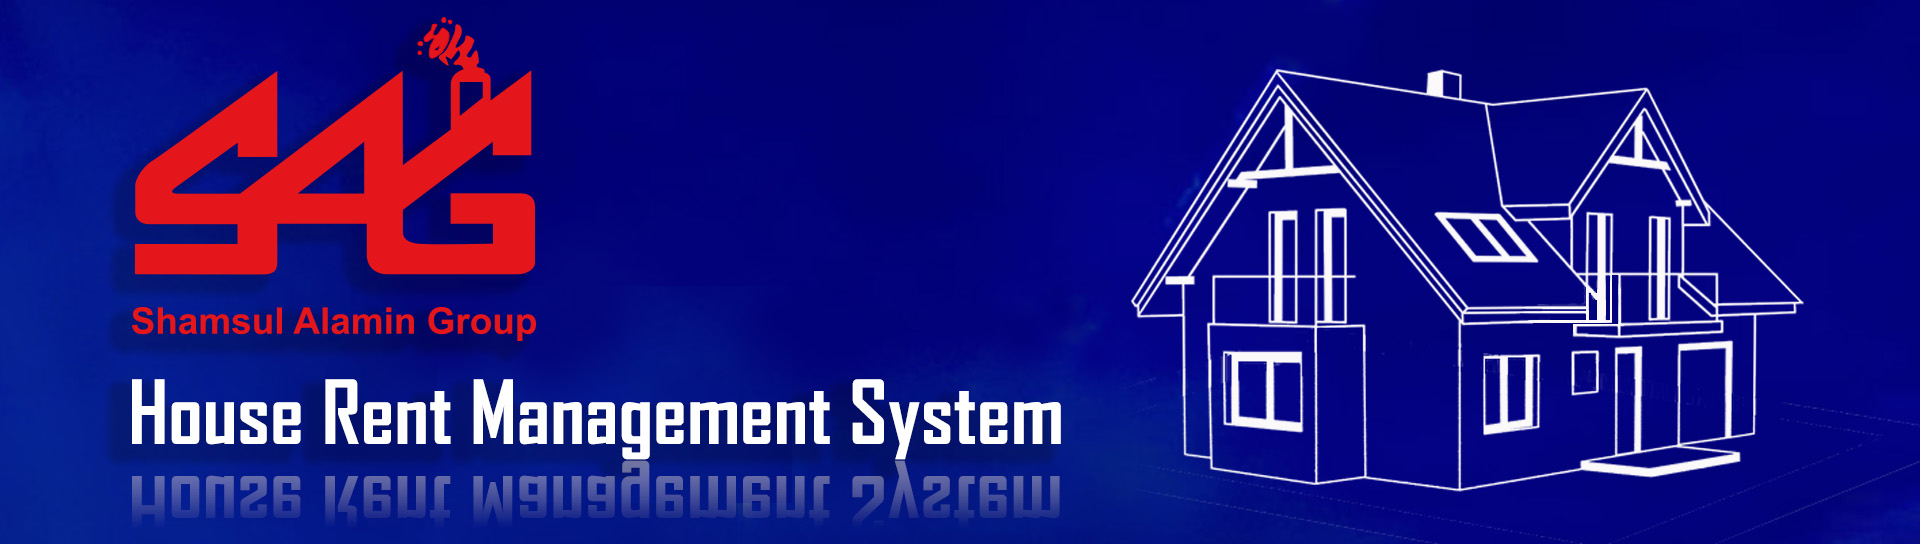
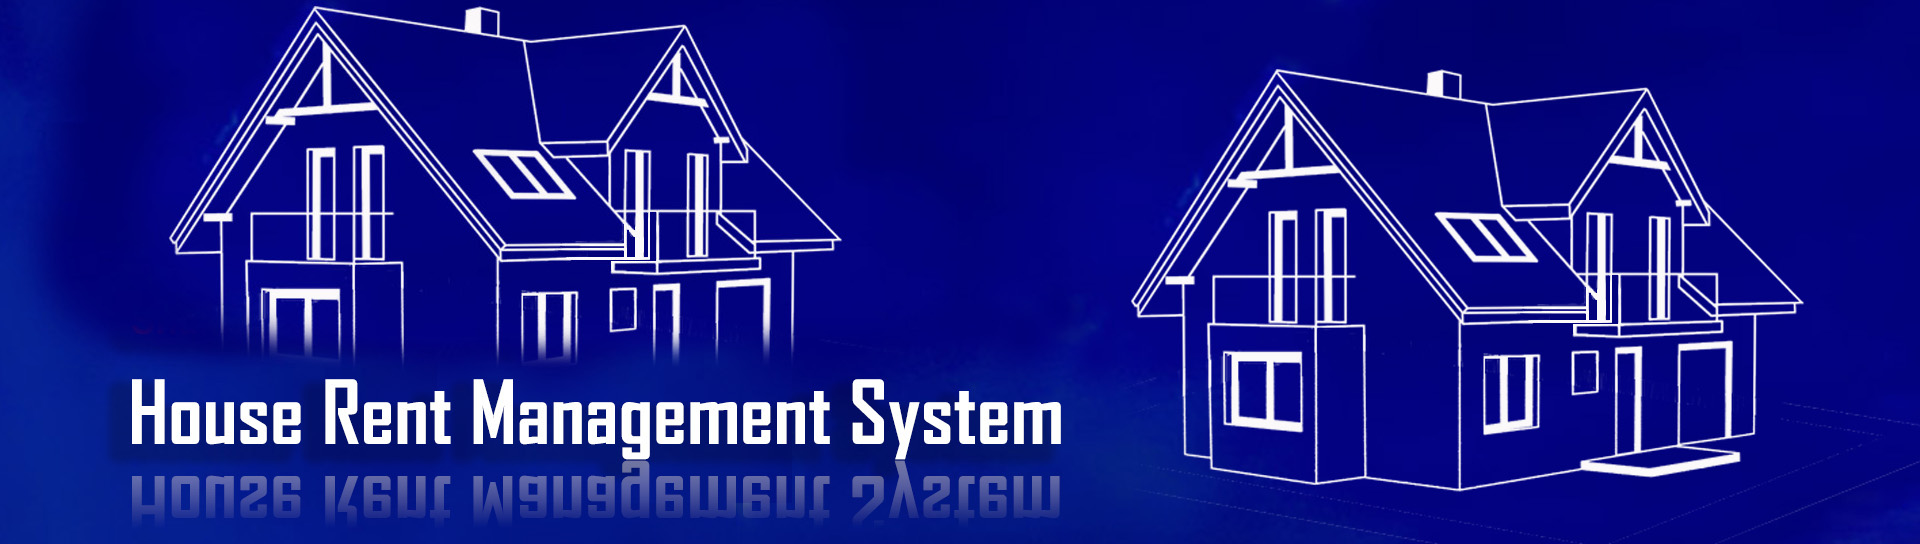
update settings for publish to github

Changed region(s): [[0.0312, 0.0, 0.4375, 0.6562]]

diff --git a/resources/views/user/create.blade.php b/resources/views/user/create.blade.php
@@ -77,12 +77,14 @@
 
                                                 <div class="form-group">
                                                         @foreach($permission as $value)
+                                                            <div class="col-sm-3">
                                                             <p>
                                                             <label class="checkbox-styled checkbox-primary">
                                                            {{ Form::checkbox('permission[]', $value->id, false, array('class' => 'name')) }}
                                                                 <span>{{ $value->name }}</span>
                                                             </label>
                                                             </p>
+                                                            </div>
                                                         @endforeach
 
                                                 </div>

diff --git a/resources/views/report/expenses.blade.php b/resources/views/report/expenses.blade.php
@@ -75,7 +75,7 @@
                   <div class="row">
                     <div class="col-xs-5">
                       <img src="/assets/img/logo.png" height="80px" width="100px" alt="">
-                      <span class="text-left" style="font-size:16px">Shamsul Alamin Group</span>
+                      <span class="text-left" style="font-size:16px">ShanixLab</span>
                     </div>
                     <div class="col-xs-5 text-left">
                       <h3 class="text-light text-default-light"><strong>Expenses @if($project !="All" and count($expenses)) [{{ $expenses[0]->project->name }}] @endif </strong></h3>

diff --git a/resources/views/report/customers.blade.php b/resources/views/report/customers.blade.php
@@ -72,7 +72,7 @@
                   <div class="row">
                     <div class="col-xs-5">
                       <img src="/assets/img/logo.png" height="80px" width="100px" alt="">
-                      <span class="text-left" style="font-size:16px">Shamsul Alamin Group</span>
+                      <span class="text-left" style="font-size:16px">ShanixLab</span>
                     </div>
                     <div class="col-xs-5 text-left">
                       <h3 class="text-light text-default-light"><strong>Customers @if($status != "All")[ @if($status == "No") Inactive @else Active @endif] @endif</strong></h3>

diff --git a/resources/views/report/collectionsSummary.blade.php b/resources/views/report/collectionsSummary.blade.php
@@ -80,7 +80,7 @@
                   <div class="row">
                     <div class="col-xs-5">
                       <img src="/assets/img/logo.png" height="80px" width="100px" alt="">
-                      <span class="text-left" style="font-size:16px">Shamsul Alamin Group</span>
+                      <span class="text-left" style="font-size:16px">ShanixLab</span>
                     </div>
                     <div class="col-xs-5 text-left">
                       <h3 class="text-light text-default-light"><strong>Collection Summary @if($reportTitle) Of<br>{{ $reportTitle }} @endif</strong></h3>

diff --git a/resources/views/report/flats.blade.php b/resources/views/report/flats.blade.php
@@ -68,7 +68,7 @@
                   <div class="row">
                     <div class="col-xs-5">
                       <img src="/assets/img/logo.png" height="80px" width="100px" alt="">
-                      <span class="text-left" style="font-size:16px">Shamsul Alamin Group</span>
+                      <span class="text-left" style="font-size:16px">ShanixLab</span>
                     </div>
                     <div class="col-xs-5 text-left">
                       <h3 class="text-light text-default-light"><strong>@if($project !="All" and count($flats)){{$flats[0]->project->name}} @endif Flats

diff --git a/resources/views/report/rents.blade.php b/resources/views/report/rents.blade.php
@@ -68,7 +68,7 @@
                   <div class="row">
                     <div class="col-xs-5">
                       <img src="/assets/img/logo.png" height="80px" width="100px" alt="">
-                      <span class="text-left" style="font-size:16px">Shamsul Alamin Group</span>
+                      <span class="text-left" style="font-size:16px">ShanixLab</span>
                     </div>
                     <div class="col-xs-5 text-left">
                       <h3 class="text-light text-default-light"><strong>@if($project !="All" and count($rents)){{$rents[0]->project->name}} @endif Rents

diff --git a/resources/views/report/projects.blade.php b/resources/views/report/projects.blade.php
@@ -74,7 +74,7 @@
                   <div class="row">
                     <div class="col-xs-5">
                       <img src="/assets/img/logo.png" height="80px" width="100px" alt="">
-                      <span class="text-left" style="font-size:16px">Shamsul Alamin Group</span>
+                      <span class="text-left" style="font-size:16px">ShanixLab</span>
                     </div>
                     <div class="col-xs-5 text-left">
                       <h3 class="text-light text-default-light"><strong>Projects @if($projectType !="All") [{{$projectType}}] @endif</strong></h3>

diff --git a/resources/views/report/dues.blade.php b/resources/views/report/dues.blade.php
@@ -80,7 +80,7 @@
                   <div class="row">
                     <div class="col-xs-5">
                       <img src="/assets/img/logo.png" height="80px" width="100px" alt="">
-                      <span class="text-left" style="font-size:16px">Shamsul Alamin Group</span>
+                      <span class="text-left" style="font-size:16px">ShanixLab</span>
                    </div>
                     <div class="col-xs-5 text-left">
                       <h3 class="text-light text-default-light"><strong>Collection Due</strong></h3>

diff --git a/resources/views/report/overall.blade.php b/resources/views/report/overall.blade.php
@@ -87,7 +87,7 @@
                   <div class="row">
                     <div class="col-xs-5">
                       <img src="/assets/img/logo.png" height="80px" width="100px" alt="">
-                      <span class="text-left" style="font-size:16px">Shamsul Alamin Group</span>
+                      <span class="text-left" style="font-size:16px">ShanixLab</span>
                    </div>
                     <div class="col-xs-5 text-right">
                       <h1 class="text-light text-default-light"><strong>Rental Status</strong></h1>

diff --git a/resources/views/report/collections.blade.php b/resources/views/report/collections.blade.php
@@ -80,7 +80,7 @@
                   <div class="row">
                     <div class="col-xs-7">
                       <img src="/assets/img/logo.png" height="80px" width="100px" alt="">
-                      <span class="text-left" style="font-size:16px">Shamsul Alamin Group</span>
+                      <span class="text-left" style="font-size:16px">ShanixLab</span>
                    </div>
                     <div class="col-xs-3 text-right">
                       <h1 class="text-light text-default-light"><strong>Collections</strong></h1>

diff --git a/resources/views/report/balance.blade.php b/resources/views/report/balance.blade.php
@@ -26,7 +26,7 @@
                   <div class="row">
                     <div class="col-xs-5">
                       <img src="/assets/img/logo.png" height="80px" width="100px" alt="">
-                      <span class="text-left" style="font-size:16px">Shamsul Alamin Group</span>
+                      <span class="text-left" style="font-size:16px">ShanixLab</span>
                    </div>
                     <div class="col-xs-5 text-left">
                       <h3 class="text-light text-default-light"><strong>Balance</strong></h3>

diff --git a/resources/views/layouts/master.blade.php b/resources/views/layouts/master.blade.php
@@ -339,7 +339,7 @@
 
 			<div class="menubar-foot-panel">
 				<small class="no-linebreak hidden-folded">
-					<span class="opacity-75">Copyright &copy; 2017</span> <strong>sagproperty</strong>
+					<span class="opacity-75">Copyright &copy; {{date('Y')}}</span> <a href="http://shanixlab.com" target="_blank"><strong>ShanixLab</a></strong>
 				</small>
 			</div>
 		</div><!--end .menubar-scroll-panel-->
